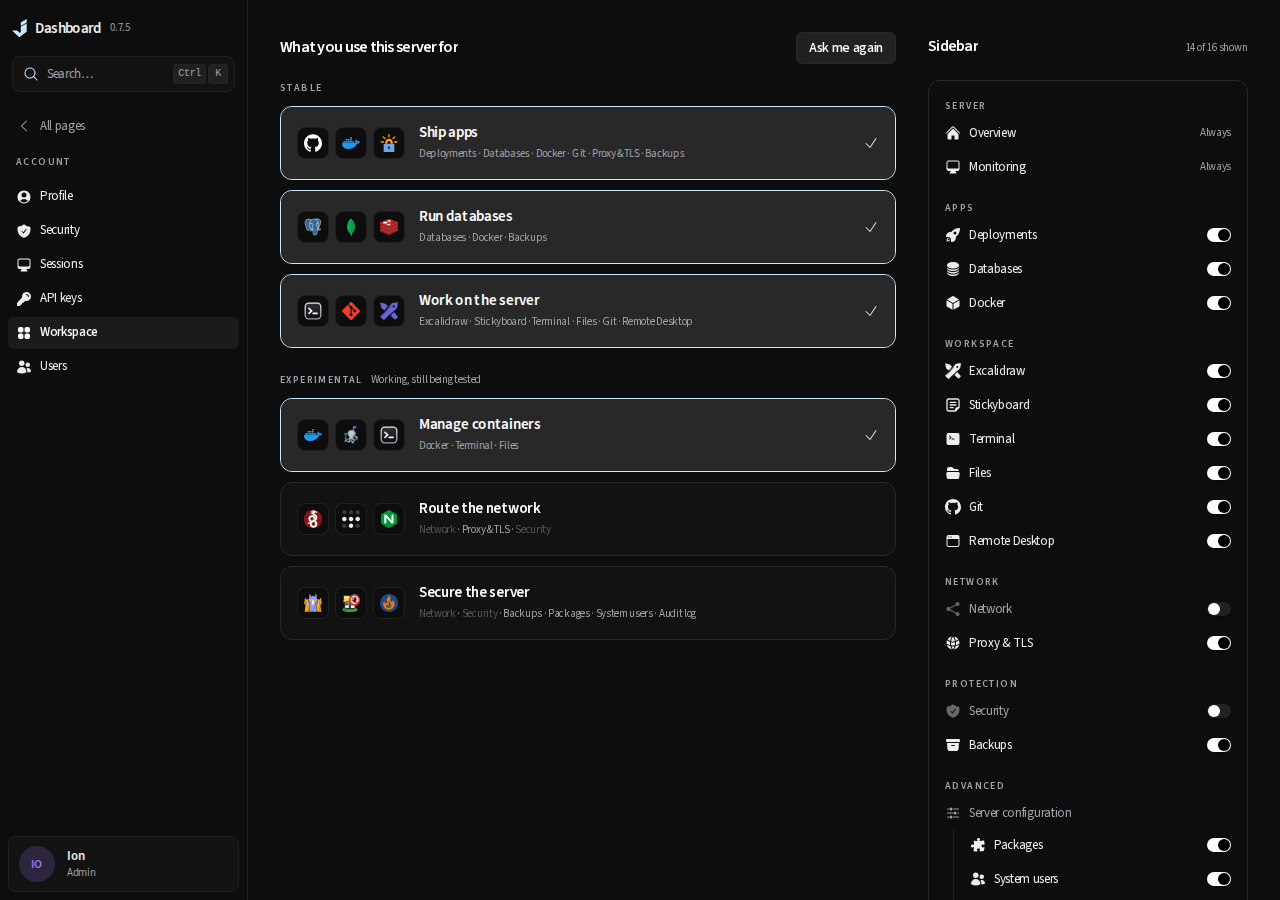
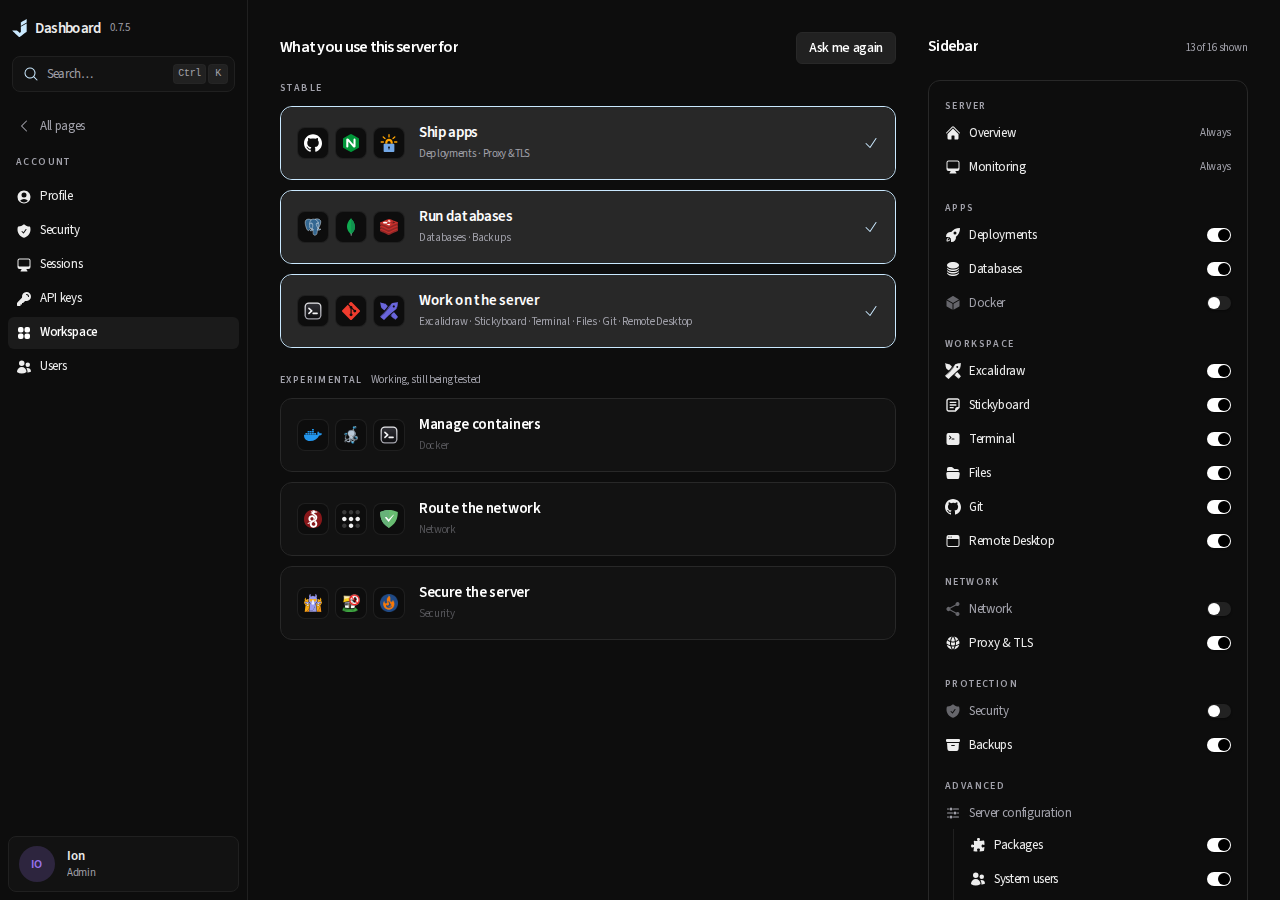
Give every sidebar section one purpose, so each experimental card brings a section of its own

diff --git a/frontend/src/lib/sidebar-sections.ts b/frontend/src/lib/sidebar-sections.ts
@@ -48,8 +48,11 @@ export function sectionOf(pathname: string): SectionKey | null {
 
 /**
  * The answers to "what will you use this server for?", each the sections it
- * needs. They overlap on purpose: Backups belongs to shipping apps and to
- * running databases alike, and choosing both shows it once.
+ * brings into the rail. No two share a section, and none takes one of the
+ * base's: Manage containers used to be Docker, Files and Terminal, which the
+ * stable three already brought, so pressing it changed nothing, and Route the
+ * network and Secure the server brought the same two rows. Now every card
+ * turns on something no other card does.
  *
  * The stable three come first and a new account starts with them chosen; the
  * experimental three work but are still being tested, so they are offered
@@ -60,15 +63,15 @@ export const PURPOSES = [
     key: "ship",
     title: "Ship apps",
     stage: "stable",
-    products: ["github", "docker", "lets-encrypt"],
-    sections: ["deploy", "docker", "proxy", "databases", "git", "backups"],
+    products: ["github", "nginx", "lets-encrypt"],
+    sections: ["deploy", "proxy"],
   },
   {
     key: "databases",
     title: "Run databases",
     stage: "stable",
     products: ["postgres", "mongodb", "redis"],
-    sections: ["databases", "backups", "docker"],
+    sections: ["databases", "backups"],
   },
   {
     key: "workspace",
@@ -82,21 +85,21 @@ export const PURPOSES = [
     title: "Manage containers",
     stage: "experimental",
     products: ["docker", "docker-compose", "terminal"],
-    sections: ["docker", "files", "terminal"],
+    sections: ["docker"],
   },
   {
     key: "network",
     title: "Route the network",
     stage: "experimental",
-    products: ["wireguard", "tailscale", "nginx"],
-    sections: ["network", "proxy", "security"],
+    products: ["wireguard", "tailscale", "adguard"],
+    sections: ["network"],
   },
   {
     key: "secure",
     title: "Secure the server",
     stage: "experimental",
     products: ["crowdsec", "fail2ban", "netfilter"],
-    sections: ["security", "network", "packages", "audit", "backups", "system-users"],
+    sections: ["security"],
   },
 ] as const satisfies readonly {
   key: string
@@ -158,14 +161,10 @@ export function purposeShown(
 }
 
 /**
- * The hidden sections after a purpose is pressed. One that is wholly shown
- * leaves the rail, keeping what another wholly shown purpose still uses, so
- * dropping Ship apps does not take Docker from somebody running databases —
- * unless that keeps all of it: Run databases is three of Ship apps' six, and
- * a press that changed nothing would read as one that did not register, so
- * then every section it needs goes and Ship apps is left partly shown. Any
- * other comes back whole. Sections the account is not offered are never
- * touched — a switch for them would decide nothing.
+ * The hidden sections after a purpose is pressed: one that is wholly shown
+ * leaves the rail, and any other comes back whole. Purposes share no section,
+ * so a press never touches another card. Sections the account is not offered
+ * are left alone — a switch for them would decide nothing.
  */
 export function pressPurpose(
   key: PurposeKey,
@@ -173,18 +172,11 @@ export function pressPurpose(
   offered: ReadonlySet<string>,
 ): Set<string> {
   const next = new Set(hidden)
-  const sections = offeredSections(key, offered)
-  if (!purposeShown(key, hidden, offered)) {
-    for (const section of sections) next.delete(section)
-    return next
+  const shown = purposeShown(key, hidden, offered)
+  for (const section of offeredSections(key, offered)) {
+    if (shown) next.add(section)
+    else next.delete(section)
   }
-  const kept = new Set(
-    PURPOSES.filter(
-      (purpose) => purpose.key !== key && purposeShown(purpose.key, hidden, offered),
-    ).flatMap((purpose) => purpose.sections),
-  )
-  const own = sections.filter((section) => !kept.has(section))
-  for (const section of own.length > 0 ? own : sections) next.add(section)
   return next
 }
 

diff --git a/frontend/tests/browser/onboarding.spec.ts b/frontend/tests/browser/onboarding.spec.ts
@@ -51,10 +51,8 @@ test("a new account is asked what the server is for, and the answer shapes the s
   }
   await expect(purposes.getByText("1 project here")).toBeVisible()
   await expect(purposes.getByText("4 databases here")).toBeVisible()
-  for (const name of ["Run databases", "Work on the server"]) {
-    await purpose(name).click()
-    await expect(purpose(name)).toHaveAttribute("aria-pressed", "false")
-  }
+  await purpose("Work on the server").click()
+  await expect(purpose("Work on the server")).toHaveAttribute("aria-pressed", "false")
   await page.getByRole("button", { name: "Continue" }).click()
 
   // Continue is the answer: saved, and drawn as the server wired to each
@@ -62,14 +60,16 @@ test("a new account is asked what the server is for, and the answer shapes the s
   await expect(page.getByRole("heading", { level: 1, name: "Your server is ready" })).toBeVisible()
   await expect(
     page.getByRole("list", { name: "What this server is for" }).getByRole("listitem"),
-  ).toHaveText(["Ship apps"])
-  await expect(page.getByText(/^9 sections in your sidebar/)).toBeVisible()
+  ).toHaveText(["Ship apps", "Run databases"])
+  await expect(page.getByText(/^7 sections in your sidebar/)).toBeVisible()
   await expect(page.getByRole("button", { name: "Go to dashboard" })).toBeInViewport()
   expect(saved).toHaveLength(1)
   expect([...saved[0]].sort()).toEqual(
     [
+      "docker",
       "excalidraw",
       "files",
+      "git",
       "network",
       "remote-desktop",
       "security",
@@ -80,29 +80,25 @@ test("a new account is asked what the server is for, and the answer shapes the s
 
   await page.getByRole("button", { name: "Go to dashboard" }).click()
   await expect(page).toHaveURL(/\/$/)
-  for (const shown of [
-    "Overview",
-    "Deployments",
-    "Databases",
-    "Docker",
-    "Git",
-    "Proxy & TLS",
-    "Backups",
-  ]) {
+  for (const shown of ["Overview", "Deployments", "Databases", "Proxy & TLS", "Backups"]) {
     await expect(rail(page).getByRole("link", { name: shown, exact: true })).toBeVisible()
   }
-  for (const hidden of ["Network", "Security", "Terminal", "Excalidraw"]) {
+  for (const hidden of ["Docker", "Network", "Security", "Terminal", "Excalidraw", "Git"]) {
     await expect(rail(page).getByRole("link", { name: hidden, exact: true })).toHaveCount(0)
   }
-  // Protection keeps Backups, which shipping apps uses, and Server
-  // configuration is in every answer, so both stay.
+  // Workspace held only hidden sections, so a label with nothing left under it
+  // goes with its rows. Protection keeps Backups, which running databases
+  // brings, and Server configuration is in every answer, so both stay.
+  await expect(rail(page).getByText("Workspace", { exact: true })).toHaveCount(0)
   await expect(rail(page).getByText("Protection", { exact: true })).toBeVisible()
   await expect(rail(page).getByText("Server configuration")).toBeVisible()
   // The Overview drops the tiles of what was hidden, and keeps the rest —
   // Packages among them, because every answer keeps it.
-  await expect(page.getByRole("link", { name: /^Docker/ }).first()).toBeVisible()
-  await expect(page.locator("[data-slot=stat-tile]", { hasText: /^Security/ })).toHaveCount(0)
-  await expect(page.locator("[data-slot=stat-tile]", { hasText: /^Packages/ })).toBeVisible()
+  const tile = (name: RegExp) => page.locator("[data-slot=stat-tile]", { hasText: name })
+  await expect(tile(/^Databases/)).toBeVisible()
+  await expect(tile(/^Packages/)).toBeVisible()
+  await expect(tile(/^Docker/)).toHaveCount(0)
+  await expect(tile(/^Security/)).toHaveCount(0)
 
   // Answered once, never asked again.
   await page.reload()

diff --git a/frontend/src/lib/sidebar-sections.test.js b/frontend/src/lib/sidebar-sections.test.js
@@ -35,11 +35,9 @@ describe("sectionOf", () => {
 })
 
 describe("hiddenFor", () => {
-  test("hides every section no chosen purpose uses, in the rail's order", () => {
+  test("hides every section no chosen purpose brings, in the rail's order", () => {
     expect(hiddenFor(["databases"])).toEqual(
-      SECTION_KEYS.filter(
-        (key) => ![...BASE_SECTIONS, "databases", "backups", "docker"].includes(key),
-      ),
+      SECTION_KEYS.filter((key) => ![...BASE_SECTIONS, "databases", "backups"].includes(key)),
     )
   })
 
@@ -50,15 +48,8 @@ describe("hiddenFor", () => {
   })
 
   // The answer a new account gets if it only presses Continue.
-  test("the stable three leave only the network and its protection out", () => {
-    expect(hiddenFor(STABLE_PURPOSES)).toEqual(["network", "security"])
-  })
-
-  test("shows a section two purposes share once", () => {
-    const hidden = hiddenFor(["ship", "databases"])
-    expect(hidden).not.toContain("backups")
-    expect(hidden).not.toContain("docker")
-    expect(new Set(hidden).size).toBe(hidden.length)
+  test("the stable three leave out exactly what the experimental three bring", () => {
+    expect(hiddenFor(STABLE_PURPOSES)).toEqual(["docker", "network", "security"])
   })
 
   test("hides all but the base when nothing is chosen, and nothing when everything is", () => {
@@ -75,7 +66,18 @@ describe("hiddenFor", () => {
   })
 })
 
-describe("stages", () => {
+describe("categories", () => {
+  // A section two cards shared made one of them a press that changed nothing.
+  test("every section is one purpose's or the base's, and only one", () => {
+    const owners = SECTION_KEYS.map((key) => [
+      ...PURPOSES.filter((purpose) => purpose.sections.includes(key)).map((purpose) => purpose.key),
+      ...(BASE_SECTIONS.includes(key) ? ["base"] : []),
+    ])
+    for (const [index, owner] of owners.entries()) {
+      expect(owner, SECTION_KEYS[index]).toHaveLength(1)
+    }
+  })
+
   test("a new account starts with the three finished purposes, and they come first", () => {
     expect(STABLE_PURPOSES).toEqual(["ship", "databases", "workspace"])
     expect(PURPOSES.slice(0, 3).map((purpose) => purpose.key)).toEqual(STABLE_PURPOSES)
@@ -99,20 +101,12 @@ describe("pressPurpose", () => {
     expect(purposeShown("workspace", next, all)).toBe(true)
   })
 
-  test("drops a shown purpose but keeps what another shown purpose uses", () => {
-    const shown = new Set(hiddenFor(["ship", "databases"]))
-    const next = pressPurpose("ship", shown, all)
-    for (const kept of ["databases", "backups", "docker"]) expect(next.has(kept)).toBe(false)
-    for (const gone of ["deploy", "proxy", "git"]) expect(next.has(gone)).toBe(true)
-    expect(purposeShown("databases", next, all)).toBe(true)
-  })
-
-  test("takes a purpose wholly out when every section it needs is another's too", () => {
-    const shown = new Set(hiddenFor(["ship", "databases"]))
+  test("takes a shown purpose out and leaves every other card as it was", () => {
+    const shown = new Set(hiddenFor(STABLE_PURPOSES))
     const next = pressPurpose("databases", shown, all)
-    for (const gone of ["databases", "backups", "docker"]) expect(next.has(gone)).toBe(true)
-    expect(purposeShown("databases", next, all)).toBe(false)
-    expect(purposeShown("ship", next, all)).toBe(false)
+    expect([...next].sort()).toEqual(["backups", "databases", "docker", "network", "security"])
+    expect(purposeShown("ship", next, all)).toBe(true)
+    expect(purposeShown("workspace", next, all)).toBe(true)
   })
 
   test("leaves the sections the account is not offered alone", () => {

diff --git a/docs/internal/frontend/feature-map.md b/docs/internal/frontend/feature-map.md
@@ -7,7 +7,7 @@ hiding a control through `useAuth().can()` is affordance only.
 | Route area | UI responsibility | Primary implementation |
 | --- | --- | --- |
 | `/login` | One card on arrival's ground: the form (password, TOTP challenge, enrolment where the install requires it, recovery codes, a forced password change that signs straight back in, and partial-session states) beside the product orbit from `lg`, a strip of it on a phone; the spine names only the steps the account has; *Forgot it?* gives the host's reset command | `src/app/login/page.tsx`, `components/onboarding/product-orbit.tsx`, auth hooks, shared logo/state/controls; [shell](shell-design.md#signing-in); checked by `tests/browser/sign-in.spec.ts` |
-| `/welcome` | The first-run question, outside the shell, which sends a new account here after sign-in until it answers. Two screens: what the server is for, as big `ChoiceCard`s drawn as the products they mean, on a Stable shelf (Ship apps, Run databases, Work on the server — chosen in advance) and an Experimental one (Manage containers, Route the network, Secure the server — working, still being tested), with a count on the cards of what the server already runs, and *Continue* and *Show me everything*; then the answer — this server's rack in the middle of the screen, each chosen purpose a card around it with a beam to it — and a centred *Go to dashboard*. *Continue* saves the sidebar the purposes keep (`PUT /account/workspace`); *Show me everything* hides nothing. Every answer keeps Packages, System users and the audit log. Either ends the question for good; Account → Workspace changes the sections afterwards | `src/app/welcome/page.tsx`, `components/onboarding/welcome-flow.tsx`, `server-picture.tsx`, `lib/sidebar-sections.ts`; [shell](shell-design.md#the-first-run-question); checked by `tests/browser/onboarding.spec.ts` |
+| `/welcome` | The first-run question, outside the shell, which sends a new account here after sign-in until it answers. Two screens: what the server is for, as big `ChoiceCard`s drawn as the products they mean, on a Stable shelf (Ship apps, Run databases, Work on the server — chosen in advance) and an Experimental one (Manage containers, Route the network, Secure the server — working, still being tested, bringing Docker, Network and Security), every section belonging to one purpose only, with a count on the cards of what the server already runs, and *Continue* and *Show me everything*; then the answer — this server's rack in the middle of the screen, each chosen purpose a card around it with a beam to it — and a centred *Go to dashboard*. *Continue* saves the sidebar the purposes keep (`PUT /account/workspace`); *Show me everything* hides nothing. Every answer keeps Packages, System users and the audit log. Either ends the question for good; Account → Workspace changes the sections afterwards | `src/app/welcome/page.tsx`, `components/onboarding/welcome-flow.tsx`, `server-picture.tsx`, `lib/sidebar-sections.ts`; [shell](shell-design.md#the-first-run-question); checked by `tests/browser/onboarding.spec.ts` |
 | `/excalidraw`, `/excalidraw/[id]` | Workspace Excalidraw drawings (`/boards` redirects here). The list opens on Excalidraw's logo and a line of facts over the drawings as lit cards, each drawn from the server's preview of its scene and sketched in on arrival, with the server items it links drawn as themselves. The editor embeds Excalidraw and autosaves to server SQLite with a revision guard; the insert panel adds linked cards for the host, deployment projects and saved databases | `components/boards/`, `lib/boards.ts`, `lib/drawing-preview.ts`; [drawing contract](../boards.md) |
 | `/remote-desktop`, `/remote-desktop/new`, `/remote-desktop/[id]` | Workspace remote desktop. The overview opens on the computers' systems as their own marks and a line of facts (how many, how many ready, open sessions, the tailnet) with the verdict and Add a computer; then the picture of a session's path — this browser, this server running guacd, each computer wired by whether its port answers and pulsing while a session is open; the computers as cards, and the tailnet's desktops not added yet. A server without the engine opens on its install, run as a job. The add flow asks which computer (the tailnet's desktops drawn as their systems, or an address), says where Remote Desktop or Screen Sharing is switched on for that system and watches the port until it answers, then saves the sign-in. A session is the terminal's workspace around the live screen: the computers down the left (put away from the top bar), a top bar of only the computer, how it is drawn, its round trip, the keys a browser keeps, fullscreen with the keyboard and Disconnect, and the session's column — the computer with its round trip coloured by how it will feel, the two ways to draw the screen as their own logos (Control through guacd, or Stream, `?mode=stream`), the route the picture takes as its three stops, and that mode's controls: the clipboard both ways, files into the Windows drive and back as downloads and key combinations for Control; quality, the pointer and pairing for Stream; the keyboard for both. Stream installs its bridge as a job, says how Sunshine is turned on for that system while it watches port 47989, pairs and shows the PIN (held over the Control screen while it is typed into Sunshine there), then frames the bridge's stream page, with the quality (Light, Smooth, Sharp, Max at 1440p120 and 80 Mb/s) and unpairing in the tools and the transport on its route (WebRTC on the tailnet, else the WebSocket); a paired computer's card has Stream beside Connect. Sessions are held by the shell, so another page and back finds them still connected, with a dock at the corner listing them (each as its computer's mark, how it is drawn and its round trip) while elsewhere, and the rail's Remote Desktop leading back into the last one; the stream hides this computer's pointer over the picture unless asked, and fullscreen locks the keyboard so Alt+Tab and the Windows key reach the computer | `components/remote-desktop/`, `lib/remote-desktop.ts`; [Remote Desktop contract](../backend/remote-desktop.md) |
 | `/stickyboard`, `/stickyboard/[id]` | Workspace sticky-note boards. The list opens on Stickyboard's mark and a line of facts (boards, notes, links, last edit) over the boards as lit cards drawn as themselves with their notes' words, with rename, duplicate and delete, and a Start from row of templates drawn as the boards they make. A board is an endless canvas of sticky notes, text and sections with links between them: pan, zoom, a minimap, a tool rail, a format bar over the selection, Markdown with tickable tasks, a section that carries its notes, drag-out linking, clipboard, undo, find and keyboard shortcuts; it autosaves to server SQLite with a revision guard | `components/stickyboard/`, `lib/stickyboard.ts`; [stickyboard contract](../stickyboard.md) |

diff --git a/docs/internal/frontend/shell-design.md b/docs/internal/frontend/shell-design.md
@@ -80,7 +80,12 @@ a list of sections kept out of its sidebar — stored on the account (`users.hid
 to every browser rather than living in this one's storage. `lib/sidebar-sections.ts` names the
 sections that can be hidden — the first segment of their path: Deployments, Databases, Docker, the
 six Workspace tools, Network, Proxy & TLS, Security, Backups, Packages, System users and the audit
-log — and the purposes the question offers, each the sections it needs. Overview, Monitoring,
+log — and the purposes the question offers, each the sections it brings. Every section belongs to
+exactly one purpose or to the base, so every card turns on something no other card does: Ship apps
+is Deployments and Proxy & TLS, Run databases is Databases and Backups, Work on the server is the six
+Workspace tools, and the experimental three are Docker, Network and Security, one each. Until this
+was a partition, Manage containers brought nothing the stable three had not, and Route the network
+and Secure the server brought the same two rows. Overview, Monitoring,
 Settings and the account cannot be hidden: a rail without them has no way to say how the machine is,
 or back to the switch. Packages, System users and the audit log can be, but every answer keeps them
 (`BASE_SECTIONS`): they are how the machine itself is changed and checked, whatever it is for.
@@ -119,8 +124,9 @@ screens, centred on arrival's ground (`.auth-backdrop`, design system §16), the
    Manage containers, Route the network and Secure the server, which work but are still being
    tested, so they say so beside their shelf's name and are taken only by somebody who presses them.
    On a server that already has projects or saved databases, those cards carry the count.
-   *Continue* saves the sidebar they keep (`hiddenFor`, which always keeps `BASE_SECTIONS`); *Show
-   me everything* hides nothing and goes straight to the dashboard.
+   *Continue* saves the sidebar they keep (`hiddenFor`, which always keeps `BASE_SECTIONS`), so the
+   defaults leave out exactly what the experimental three bring — Docker, Network and Security;
+   *Show me everything* hides nothing and goes straight to the dashboard.
 2. **The answer**: `ServerPicture` (`components/onboarding/server-picture.tsx`) filling the screen —
    this server's rack in the middle, named and marked with its distribution, each purpose chosen a
    card of its products around it on an ellipse, with an `AnimatedBeam` running out to each — and one
@@ -141,9 +147,8 @@ but the rail. *What you use this server for* is the question's purposes on the s
 lit cards (`PurposePicker`), each its three products, its name and the sections it means with the
 ones out of the rail dimmed; *Ask me again* goes back to `/welcome`. Only sections are stored, so a
 purpose is chosen when every section of it the role is offered is shown (`purposeShown`); pressing a
-chosen one takes out what no other chosen purpose uses, or all of it when another holds every one —
-Run databases inside Ship apps — so a press always changes something (`pressPurpose`), and pressing
-any other brings it back whole. Beside it, *Sidebar* is the rail itself (`SidebarEditor`), walked
+chosen one takes its sections out and pressing any other brings them back whole (`pressPurpose`).
+Purposes share no section, so a press never moves another card. Beside it, *Sidebar* is the rail itself (`SidebarEditor`), walked
 from the same registry in its groups and order with a switch on every row the role may hide;
 Overview, Monitoring and Settings say *Always* instead, and Server configuration heads the three
 sections it holds. A list of sections beside a separate picture of the rail was the same list twice.

diff --git a/CHANGELOG.md b/CHANGELOG.md
@@ -15,7 +15,7 @@ Automatic attention panels and settings recommendations are removed from the das
 - Show updates in a compact notice and a dedicated installation dialog
   - The update notice compares the installed and available versions, opens the installation progress in its own dialog, and leaves the complete patch notes on the Version page.
 - Start the first-run question with the stable purposes and mark the experimental ones
-  - Ship apps, Run databases and Work on the server are chosen to begin with; Manage containers, Route the network and Secure the server sit on their own Experimental shelf. Packages, System users and the audit log stay in every answer. Account → Workspace shows the same purposes beside the sidebar itself, with a switch on every section it can hide.
+  - Ship apps (Deployments, Proxy & TLS), Run databases (Databases, Backups) and Work on the server (the Workspace tools) are chosen to begin with; Manage containers (Docker), Route the network (Network) and Secure the server (Security) sit on their own Experimental shelf. Every section belongs to one purpose only, so each choice adds something, and Packages, System users and the audit log stay in every answer. Account → Workspace shows the same purposes beside the sidebar itself, with a switch on every section it can hide.
 
 ### Removed
 
